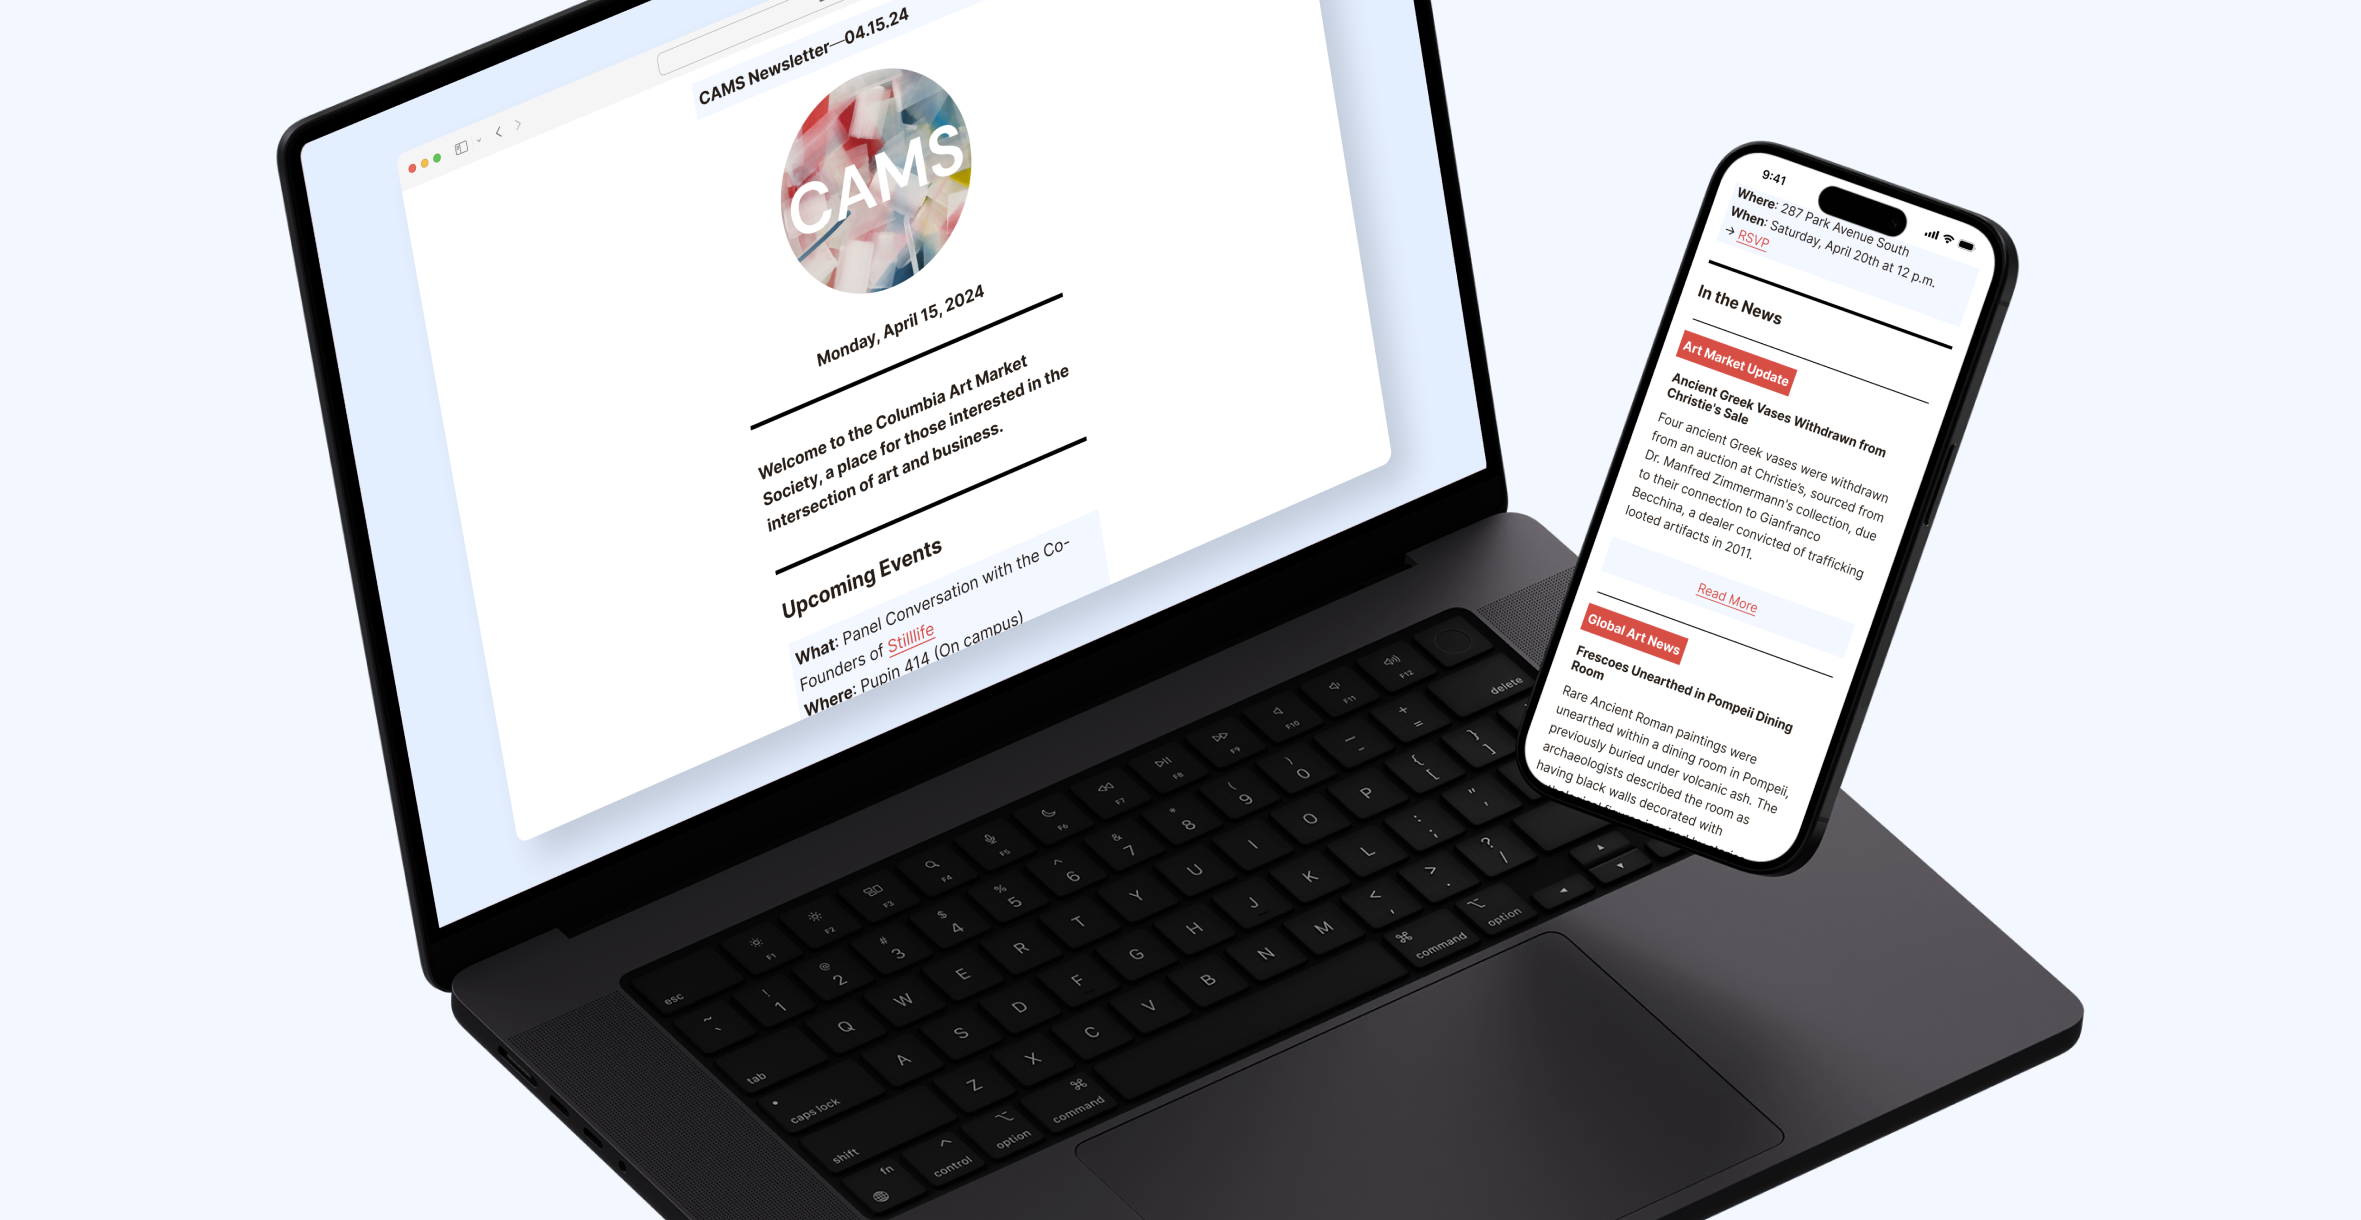
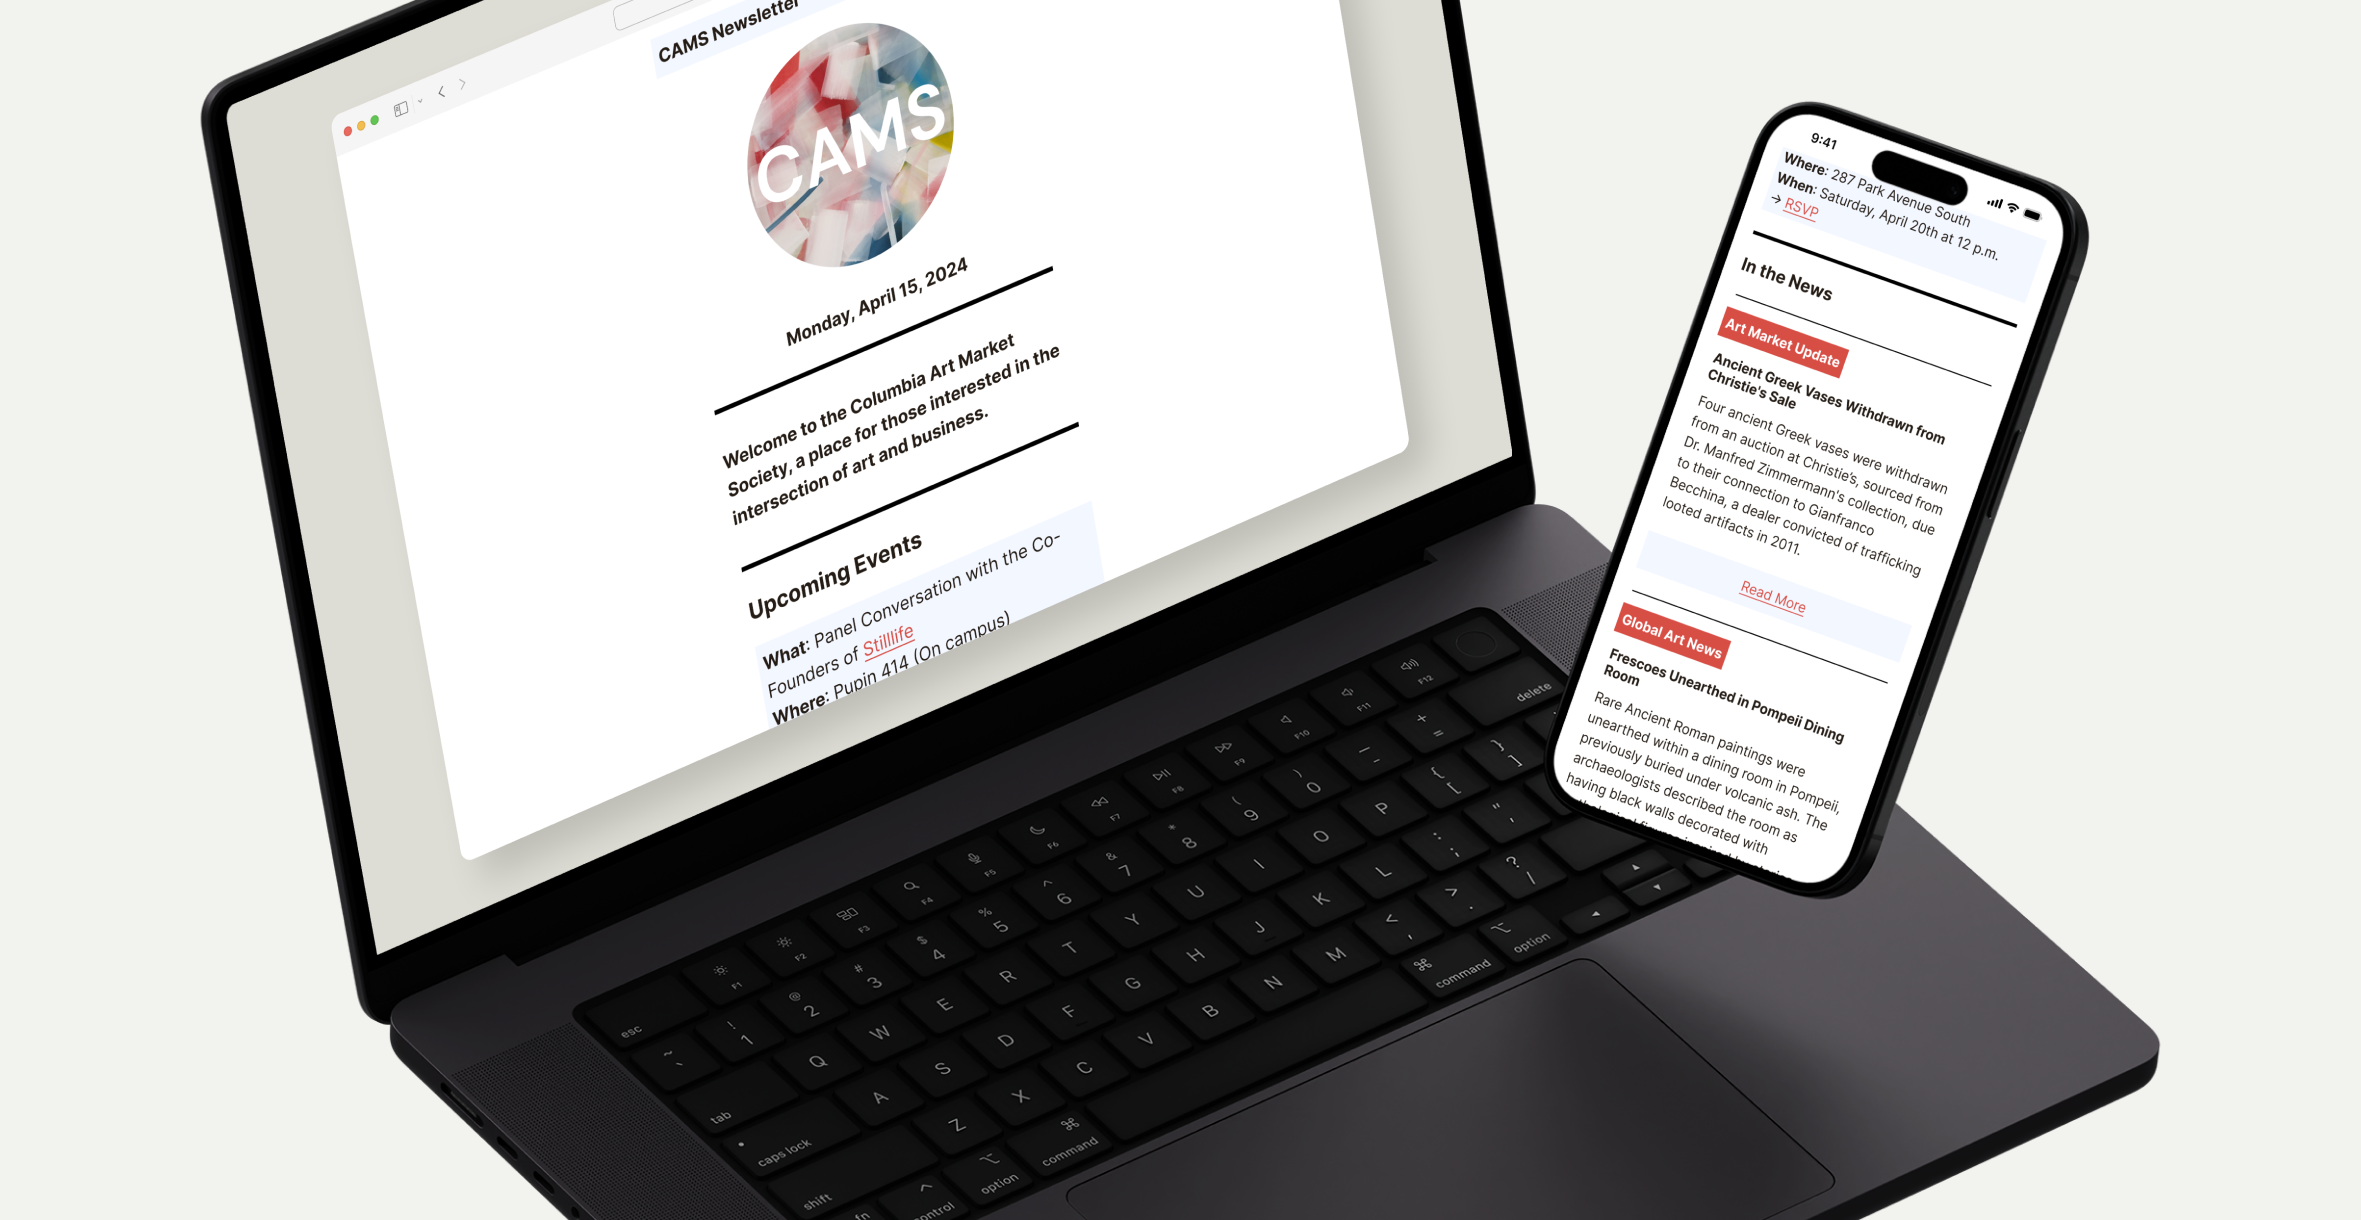
thumbnail fix

diff --git a/public/custom.css b/public/custom.css
@@ -29,27 +29,27 @@ h4 {
 }
 
 a, a:visited {
-    color: black;
+    color: #222222;
     text-decoration: none;
-    border-bottom: 1px solid;
     border-color: #cacaca;
 }
 a:hover {
     text-decoration: none;
-    color: #555;
+    font-style: italic;
+
 }
 .site-title, .site-title:visited {
     border-bottom: 0px;
     font-size: 0.9em; 
     font-weight: 400;
     letter-spacing: 0.02em;
-    color: black; 
+    color: #222222; 
 }
 .page-link, .page-link:visited {
     border-bottom: 0px;
     letter-spacing: 0.02em;
     font-size: 0.9em; 
-    color: black;
+    color: #222222;
 }
 ul {
     list-style-type: circle;
@@ -58,22 +58,24 @@ ul {
     font-weight: 300;
     font-size: .9em;
 }
+
 li {
     padding-bottom: 1em;
 }
 .site-header {
     border-top: 0px solid white;
-    border-bottom: 1px solid #cacaca;
+    border-bottom: 1px solid #deddd5;
 }
 
 .post-link {
     border-bottom: 0px;
     font-size: 1em;
     font-weight: 400;
+    color: #222222;
 }
 
 .page-link:hover {
-    color: #555;
+    font-style: italic;
 }
 
 /* table {

diff --git a/_sass/minima/skins/auto.scss b/_sass/minima/skins/auto.scss
@@ -6,7 +6,7 @@
 $color-scheme-auto: true !default;
 $color-scheme-dark: false !default;
 
-$grey-color:       #CACACA !default;
+$grey-color:       #deddd5 !default;
 // $grey-color-light: lighten($grey-color, 40%) !default;
 
 // Light mode
@@ -19,7 +19,7 @@ $lm-brand-color-dark:      darken($lm-brand-color, 25%) !default;
 $lm-site-title-color:      $lm-brand-color-dark !default;
 
 $lm-text-color:            #111111 !default;
-$lm-background-color:      #FFF !default;
+$lm-background-color:      #f8f9f7 !default;
 $lm-code-background-color: #eeeeff !default;
 
 $lm-link-base-color:       #2a7ae2 !default;

diff --git a/_posts/2024-01-01-vision-vr.md b/_posts/2024-01-01-vision-vr.md
@@ -2,8 +2,8 @@
 layout: post
 title: "Performing Visual Tasks with Simulated Vision Impairments"
 categories: misc
-thumbImagePath: assets/vision.jpg
-shortDescription: "Final project for 3D User Interfaces & Augmented Reality at Columbia University (Spring '24)."
+thumbImagePath: assets/vision-thumb.png
+shortDescription: "Final project for 3D User Interfaces & Augmented Reality at Columbia University (Spring '24)"
 mainImagePath: assets/vision.gif
 ---
 ##### with Nova Cash, Hong Ann Do

diff --git a/_posts/2024-05-01-recs.md b/_posts/2024-05-01-recs.md
@@ -5,8 +5,8 @@ author:
 - Da Hoon Oh
 - Brayan Pichardo
 - Keunwoo Song
-thumbImagePath: assets/recs-thumbnail3.png
-shortDescription: "Semester project for User Interface Design at Columbia University (Fall '23)."
+thumbImagePath: assets/recs-thumb.png
+shortDescription: "Semester project for User Interface Design at Columbia University (Fall '23)"
 mainImagePath: assets/recs-intro2.png
 ---
 ##### with Da Hoon Oh, Brayan Pichardo, Keunwoo Song (developers)

diff --git a/_posts/2024-04-01-mapping-citi-bike.md b/_posts/2024-04-01-mapping-citi-bike.md
@@ -6,8 +6,8 @@ author:
 - Bart Simpson
 - Nelson Mandela Muntz
 meta: "Springfield"
-thumbImagePath: assets/bike.png
-shortDescription: "Interactive data visualization exploring the last decade of Citi Bikes in New York City."
+thumbImagePath: assets/bike-thumb.png
+shortDescription: "Interactive data visualization exploring the last decade of Citi Bikes in New York City"
 externalUrl: "https://francograaff.github.io/mapping-citibike/"
 ---
 

diff --git a/_posts/about.md b/_posts/about.md
@@ -2,8 +2,8 @@
 layout: about
 title: About
 permalink: /about/
+thumbImagePath: assets/Wooden Figure.png
+
 ---
 
 I'm a recent graduate of Columbia University, where I studied computer science with interests in design, technology, and journalism.
-
-![A chart](/assets/wood-figure.png)

diff --git a/_posts/2024-04-02-newsletter.md b/_posts/2024-04-02-newsletter.md
@@ -1,7 +1,7 @@
 ---
 layout: post
 title: "CAMS Newsletter"
-thumbImagePath: assets/newsletter-thumbnail.png
+thumbImagePath: assets/newsletter-thumb.png
 shortDescription: "Redesigning the Columbia Art Market Society newsletter"
 mainImagePath: assets/newsletter-intro.png
 ---
